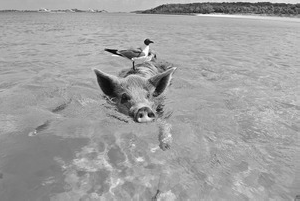
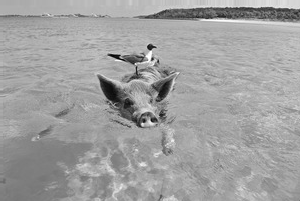
Borrada feite e comentários

diff --git a/pset1.py b/pset1.py
@@ -74,10 +74,11 @@ class Imagem:
         # por isso o valor que será subtraido por 'c' tem que ser 255.
 
     def correlacao(self, kernel, n):
-        # Essa função recebe um Kernel que é representado por uma lista.
+        # Essa função recebe um Kernel que é representado por uma lista e o valor de n.
         resultado = Imagem.nova(self.largura, self.altura)
         # Criando uma nova imagem para fazer o correlacionamento.
         m = int((n - 1) / 2)
+        # Considerando que quailquer valor de n seja um número impar.
         for x in range(self.largura):
             for y in range(self.altura):
             # Os dois loops acima são para que seja feito em cada pixel da imagem.
@@ -85,16 +86,25 @@ class Imagem:
                 i = 0
                 for l in range((x - m), (x + m + 1)):
                     for a in range((y - m), (y + m + 1)):
+                    # Os dois loops acima, é feito para fazer o calculo de correlacionamento entre a imagem e o kernel.
                         soma_kernel += self.get_pixel(a, l) * kernel[i]
                         i += 1
+                        # Soma todos os valores do correlacionamento de cada pixel com seu respectivo valor do kernel.
                 soma_kernel = round(soma_kernel)
+                # Para que n haja valores float.
                 if soma_kernel > 255:
                     soma_kernel = 255
+                    # Limitando o valor máximo a 255.
                 if soma_kernel < 0:
                     soma_kernel = 0
+                    # Limitando o valor mínimo a 0.
                 resultado.set_pixel(y, x, soma_kernel)
+                # Aplicando o valor resultante ao respectivo pixel.
         return resultado
 
+    # Essa função recebe n, e cria uma lista de tamanha n*n e preenche ela inteira com o valor de 1/(n*n)
+    # para que a soma de todos os valores da lista seja igual a 1. No retorn dela, ela chama a função correlação
+    # enviando como parametros a lista e n.
     def borrada(self, n):
         kernel = []
         valores_kernel = 1 / (n*n)

diff --git a/test.py b/test.py
@@ -146,17 +146,17 @@ class TestFiltros(unittest.TestCase):
                 0, 0, 0, 0, 0, 0, 0, 0, 0]
     
     # Teste para conseguir testar a função 'correlacao' com o Kernel anterior.
-    def test_correlacao(self):
+    def questao_04(self):
         im = pset1.Imagem.carregar('test_images/pigbird.png')
-        resultado = im.correlacao(TestFiltros.kernel, 5)
+        resultado = im.correlacao(TestFiltros.kernel, 9)
         pset1.Imagem.salvar(resultado, 'resultados/questao04_correlacao.png')
         self.assertTrue(True)
-        # 'python test.py TestFiltros.test_correlacao'
+        # 'python test.py TestFiltros.questao_04'
 
-    def test_blur(self):
-        im = pset1.Imagem.carregar('test_images/chess.png')
-        resultado = im.borrada(7)
-        pset1.Imagem.salvar(resultado, 'test_blur.png')
+    def test_implementacao_borrada(self):
+        im = pset1.Imagem.carregar('test_images/pigbird.png')
+        resultado = im.borrada(5)
+        pset1.Imagem.salvar(resultado, 'test_borrada.png')
         self.assertTrue(True)
 
 if __name__ == '__main__':
